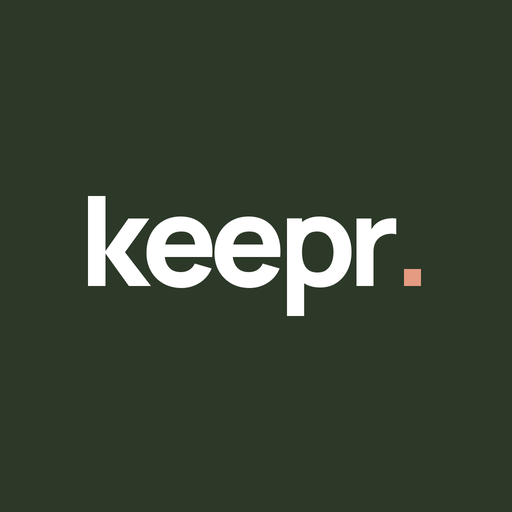
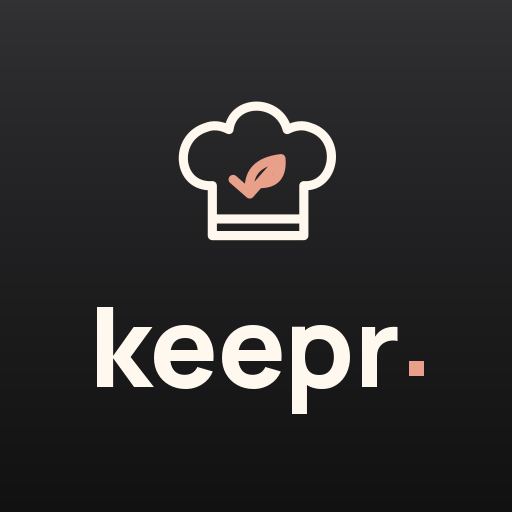
v14

diff --git a/app.js b/app.js
@@ -241,7 +241,7 @@ const orderedRecipes=()=>[...recipes].sort((a,b)=>{
  const first=recipePriority(a),second=recipePriority(b);
  return first&&second?compareFoodDates(first,second):Number(Boolean(second))-Number(Boolean(first));
 });
-function save(){queueRecipes();try{localStorage.setItem('keepr-v1',JSON.stringify(state));}catch{toast(t('No se pudo guardar. Los cambios durarán hasta cerrar la página.','Couldn’t save. Changes will last until you close the page.'));}}
+function save(){queueRecipes();try{localStorage.setItem('keepr-v1',JSON.stringify(state));return true;}catch{toast(t('No se pudo guardar. Los cambios durarán hasta cerrar la página.','Couldn’t save. Changes will last until you close the page.'));return false;}}
 function toast(msg){$('#toast').textContent=msg;$('#toast').classList.add('visible');clearTimeout(toast.timer);toast.timer=setTimeout(()=>$('#toast').classList.remove('visible'),3500);}
 // Check-in intervals from the day an item is added, not food safety deadlines.
 const reviewIntervals=[
@@ -349,7 +349,12 @@ function renderItems(){const items=state.items.filter(i=>(foodSearch(i.name,quer
 function openModal(title,body){$('#modal-kicker').textContent=title;$('#modal-body').innerHTML=body;if(!$('#modal').open)$('#modal').showModal();}
 function closeModal(){$('#modal').close();if(previewURL){URL.revokeObjectURL(previewURL);previewURL=null;}}
 function addOptions(){openModal(t("AGREGAR A MI COCINA","ADD TO MY KITCHEN"),`<h2>${t("¿Qué hay en tu refri?","What’s in your fridge?")}</h2><p>${t("Elige cómo quieres agregar tus alimentos.","Choose how to add your food.")}</p><div class="modal-actions"><button class="secondary" id="manual">${t("Agregar manualmente","Add manually")}</button><button class="primary" id="photo">${t("Analizar fotos","Analyze photos")}</button></div>`);$('#manual').onclick=()=>editItem();$('#photo').onclick=photoFlow;}
-function editItem(id){const item=state.items.find(i=>i.id===id);openModal(item?t("EDITAR ALIMENTO","EDIT FOOD"):t("REGISTRO MANUAL","MANUAL ENTRY"),`<h2>${item?t("Actualiza tu alimento","Update your food item"):t("Agregar alimento","Add food")}</h2><form id="food-form"><label>${t("Nombre","Name")}<input id="food-name" required maxlength="100" value="${escapeHTML(item?foodLabel(item.name):'')}" placeholder="${t("Ej. Jitomate","e.g. Tomato")}" list="food-suggestions"></label><datalist id="food-suggestions">${FOOD_CATALOG.map(f=>`<option value="${escapeHTML(foodLabel(f.name))}"></option>`).join('')}</datalist><div id="food-recognition" class="recognition" aria-live="polite"></div><details class="manual-details" ${item?'open':''}><summary>${t("Cantidad y fecha de vencimiento (opcional)","Quantity and expiration date (optional)")}</summary><div class="form-row"><label>${t("Cantidad (opcional)","Quantity (optional)")}<input id="food-quantity" maxlength="100" value="${escapeHTML(item?.quantity==='Por confirmar'?'':item?quantityLabel(item.quantity):'')}" placeholder="${t("Ej. 3 piezas","e.g. 3 pieces")}"></label><label>${t("Fecha de vencimiento (opcional)","Expiration date (optional)")}<input id="food-date" type="date" value="${item?.dateKind==='estimated'?'':item?.date||''}"></label></div><p class="subtle">${t("Si dejas la fecha vacía, Keepr sugiere cuándo revisar los alimentos que reconoce.","If you leave the date blank, Keepr suggests when to check recognized foods.")}</p></details><div class="modal-actions"><button class="secondary" type="button" id="cancel-form">${t("Cancelar","Cancel")}</button><button class="primary" type="submit">${t("Guardar alimento","Save food")}</button></div></form>`);$('#food-name').oninput=updateRecognition;updateRecognition();$('#cancel-form').onclick=closeModal;$('#food-form').onsubmit=e=>{e.preventDefault();const enteredName=$('#food-name').value.trim(),enteredQuantity=$('#food-quantity').value.trim();const name=item&&enteredName===foodLabel(item.name)?item.name:enteredName,quantity=item&&enteredQuantity===quantityLabel(item.quantity)?item.quantity:enteredQuantity||'Por confirmar',labelDate=$('#food-date').value; if(!name){toast(t("Escribe el nombre del alimento.","Enter the food name."));return;}const review=labelDate?null:item?.dateKind==='estimated'&&item.name===name?item.date:!item||item.name!==name?suggestedReview(name):null;const date=labelDate||review||null;const data={id:item?.id||newId(),name,quantity,date,dateKind:review?'estimated':labelDate?(item?.date===labelDate&&item.dateKind!=='estimated'?item.dateKind:'reference'):'unknown',dateEstimateNote:item&&date===item.date?item.dateEstimateNote:null,quantitySource:item&&quantity===item.quantity?item.quantitySource:'manual',emoji:resolveFood(name)?.emoji||(item?.name===name&&validFoodEmoji(item?.emoji)?item.emoji:'🍽')};if(item)state.items=state.items.map(i=>i.id===id?data:i);else state.items.push(data);save();closeModal();render();toast(t('Alimento guardado.','Food saved.'));};}
+function editItem(id){const item=state.items.find(i=>i.id===id);openModal(item?t("EDITAR ALIMENTO","EDIT FOOD"):t("REGISTRO MANUAL","MANUAL ENTRY"),`<h2>${item?t("Actualiza tu alimento","Update your food item"):t("Agregar alimento","Add food")}</h2><form id="food-form"><label>${t("Nombre","Name")}<input id="food-name" required maxlength="100" value="${escapeHTML(item?foodLabel(item.name):'')}" placeholder="${t("Ej. Jitomate","e.g. Tomato")}" list="food-suggestions"></label><datalist id="food-suggestions">${FOOD_CATALOG.map(f=>`<option value="${escapeHTML(foodLabel(f.name))}"></option>`).join('')}</datalist><div id="food-recognition" class="recognition" aria-live="polite"></div><details class="manual-details" ${item?'open':''}><summary>${t("Cantidad y fecha de vencimiento (opcional)","Quantity and expiration date (optional)")}</summary><div class="form-row"><label>${t("Cantidad (opcional)","Quantity (optional)")}<input id="food-quantity" maxlength="100" value="${escapeHTML(item?.quantity==='Por confirmar'?'':item?quantityLabel(item.quantity):'')}" placeholder="${t("Ej. 3 piezas","e.g. 3 pieces")}"></label><label>${t("Fecha de vencimiento (opcional)","Expiration date (optional)")}<input id="food-date" type="date" value="${item?.dateKind==='estimated'?'':item?.date||''}"></label></div><p class="subtle">${t("Si dejas la fecha vacía, Keepr sugiere cuándo revisar los alimentos que reconoce.","If you leave the date blank, Keepr suggests when to check recognized foods.")}</p></details><div class="modal-actions"><button class="secondary" type="button" id="cancel-form">${t("Cancelar","Cancel")}</button><button class="primary" type="submit">${t("Guardar alimento","Save food")}</button></div></form>`);$('#food-name').oninput=updateRecognition;updateRecognition();$('#cancel-form').onclick=closeModal;$('#food-form').onsubmit=e=>{e.preventDefault();const enteredName=$('#food-name').value.trim(),enteredQuantity=$('#food-quantity').value.trim();const name=item&&enteredName===foodLabel(item.name)?item.name:enteredName,quantity=item&&enteredQuantity===quantityLabel(item.quantity)?item.quantity:enteredQuantity||'Por confirmar',labelDate=$('#food-date').value; if(!name){toast(t("Escribe el nombre del alimento.","Enter the food name."));return;}const review=labelDate?null:item?.dateKind==='estimated'&&item.name===name?item.date:!item||item.name!==name?suggestedReview(name):null;const date=labelDate||review||null;const data={id:item?.id||newId(),name,quantity,date,dateKind:review?'estimated':labelDate?(item?.date===labelDate&&item.dateKind!=='estimated'?item.dateKind:'reference'):'unknown',dateEstimateNote:item&&date===item.date?item.dateEstimateNote:null,quantitySource:item&&quantity===item.quantity?item.quantitySource:'manual',emoji:resolveFood(name)?.emoji||(item?.name===name&&validFoodEmoji(item?.emoji)?item.emoji:'🍽')};if(item)state.items=state.items.map(i=>i.id===id?data:i);else state.items.push(data);const saved=save();closeModal();render();if(!saved)return;if(item||location.hash==='#inventario'){toast(t('Alimento guardado.','Food saved.'));return;}showManualSaveConfirmation(name);};}
+function showManualSaveConfirmation(name){
+ openModal(t("LISTO","DONE"),`<h2>${t("Alimento guardado","Food saved")}</h2><p>${escapeHTML(foodLabel(name))} ${t("ya está en tu inventario.","is now in your inventory.")}</p><div class="modal-actions"><button type="button" class="secondary" id="continue-after-save">${t("Continuar","Continue")}</button><button type="button" class="primary" id="view-saved-food">${t("Ver en inventario","View in inventory")}</button></div>`);
+ $('#continue-after-save').onclick=closeModal;
+ $('#view-saved-food').onclick=()=>{filter='all';query='';closeModal();location.hash='inventario';};
+}
 function updateRecognition(){const name=$('#food-name').value.trim(),food=resolveFood(name);$('#food-recognition').innerHTML=name?`<span class="recognition-emoji">${foodIcon(name)}</span><div>${food?`${t("Asociado a ","Matched to ")}<strong>${escapeHTML(foodLabel(food.name))}</strong>${food.method==='approximate'?t(" · coincidencia aproximada"," · approximate match"):''}`:t("Alimento personalizado","Custom item")}<small>${food?t("Conservaremos el nombre que escribiste.","We’ll keep the name you entered."):t("Puedes guardarlo con este nombre.","You can save it under this name.")}</small></div>`:t("Escribe un alimento para ver su icono.","Enter a food name to see its icon.");}
 let photoSession=0,analysisController=null;
 async function prepareImage(file){

diff --git a/LEEME_ACTUALIZACION.md b/LEEME_ACTUALIZACION.md
@@ -1,5 +1,7 @@
-# Actualizar Keepr a 0.24.2
+# Actualizar Keepr a 0.24.4
 
+La versión 0.24.4 incorpora el icono aprobado con gorro de chef y hoja integrada en la palomita.
+La versión 0.24.3 añade el icono grafito y permite abrir el inventario desde la confirmación de alta manual.
 La versión 0.24.2 añade un icono de inicio con el logotipo blanco keepr. sobre verde oliva oscuro. Si el teléfono conserva el icono anterior, vuelve a añadir el acceso desde el navegador.
 La versión 0.24.1 prepara las fotos de portada en segundo plano y las reutiliza al navegar entre Inicio, Inventario y Recetas.
 Este ZIP actualiza tu repositorio existente de Keepr. Incluye Keepr Cookbook con 45 recetas en español e inglés. En conjunto, las recetas usan los 82 alimentos que reconoce el escáner. Puedes explorarlas con el inventario vacío, ver los ingredientes que te faltan y filtrar los platos que puedes preparar con lo que tienes.
